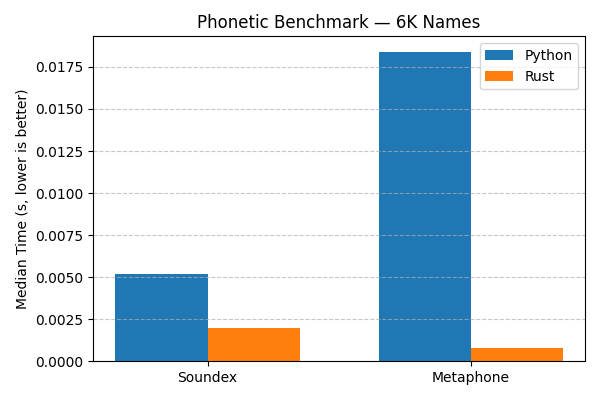
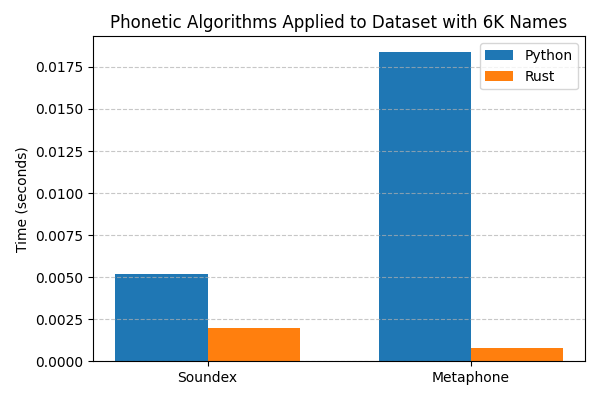
feat: Plot Python vs Rust phonetic algorithm performance

Changed region(s): [[0.18, 0.03, 0.96, 0.09], [0.03, 0.21, 0.06, 0.63], [0.03, 0.66, 0.06, 0.78]]

diff --git a/16_plot_benchmarks/main.py b/16_plot_benchmarks/main.py
@@ -1,10 +1,10 @@
 import matplotlib.pyplot as plt
 
-labels_6k = ["Soundex", "Metaphone"]
+labels = ["Soundex", "Metaphone"]
+
 python_6k = [0.0052, 0.0184]
 rust_6k = [0.0020, 0.0008]
 
-labels_9m = ["Soundex", "Metaphone"]
 python_9m = [12.6843, 47.2550]
 rust_9m = [0.4404, 0.9938]
 
@@ -15,8 +15,8 @@ def plot_benchmark(labels, python_times, rust_times, dataset_label, filename):
     plt.figure(figsize=(6, 4))
     plt.bar([i - width / 2 for i in x], python_times, width, label="Python")
     plt.bar([i + width / 2 for i in x], rust_times, width, label="Rust")
-    plt.ylabel("Median Time (s, lower is better)")
-    plt.title(f"Phonetic Benchmark — {dataset_label}")
+    plt.ylabel("Time (seconds)")
+    plt.title(f"Phonetic Algorithms Applied to Dataset with {dataset_label}")
     plt.xticks(x, labels)
     plt.legend()
     plt.grid(axis="y", linestyle="--", alpha=0.7)
@@ -25,5 +25,5 @@ def plot_benchmark(labels, python_times, rust_times, dataset_label, filename):
     plt.close()
 
 
-plot_benchmark(labels_6k, python_6k, rust_6k, "6K Names", "phonetics_6k_comparison.png")
-plot_benchmark(labels_9m, python_9m, rust_9m, "9M Names", "phonetics_9m_comparison.png")
+plot_benchmark(labels, python_6k, rust_6k, "6K Names", "phonetics_6k_comparison.png")
+plot_benchmark(labels, python_9m, rust_9m, "9M Names", "phonetics_9m_comparison.png")
